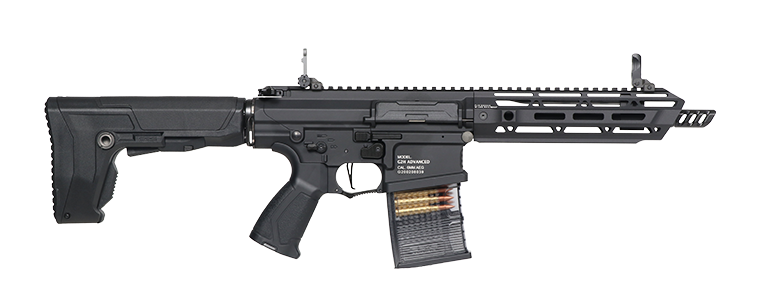
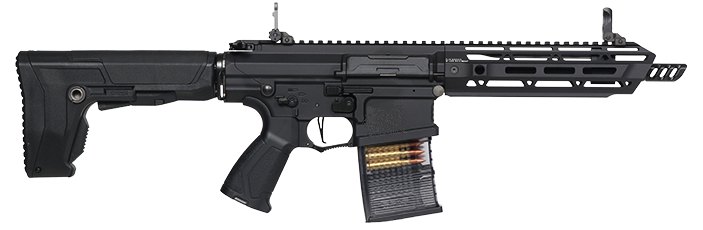
colors corrected and size fit for weaponCard

Changed region(s): [[0.0, 0.0, 0.9858, 0.9739]]

diff --git a/src/components/WeaponCard.js b/src/components/WeaponCard.js
@@ -15,7 +15,21 @@ const useStyles = makeStyles({
   root: {
     width: 200,
     height: 110,
+    backgroundColor: '#141819'
   },
+  weaponStatus: {
+    fontSize: '0.75rem',
+    color: '#4F8A99',
+  },
+  weaponClass: {
+    fontSize: '0.75rem',
+    color: '#727676',
+  },
+  weaponImg: {
+    padding: '0px 20px 0px 20px',
+    maxWidth: '100%',
+    display: 'flex',
+  }
 });
 
 export default function WeaponCard() {
@@ -24,22 +38,33 @@ export default function WeaponCard() {
   return (
     <Card className={classes.root}>
 
-      <Column>
-        <Row>
-          <Item position='left'> Primary Weapon </Item>
+      <Column gap={.5}>
+        <Row >
+          <Item position='left'>
+            <div className={classes.weaponStatus}>Primary Weapon</div>
+          </Item>
+        </Row>
+        <Row gap={'inherit'}>
+          <Item positon='left'>
+            <div className={classes.weaponClass}>AK-47</div>
+          </Item>
         </Row>
         <Row>
-          <Item positon='left'> AK-47 </Item>
+          <Item className={classes.weaponImg}>
+            <CardMedia
+              component="img"
+              alt="Contemplative Reptile"
+              image='https://i.imgur.com/tWaWwc1.png'
+            />
+          </Item>
         </Row>
-        <CardMedia
-          component="img"
-          alt="Contemplative Reptile"
-          image='https://i.imgur.com/P7p7MxW.png'
-        />
-
-        <Row>
-          <Item> Assault Rifle </Item>
-          <Item positon='right'> G & G </Item>
+        <Row position={'bottom'}>
+          <Item>
+            <div className={classes.weaponClass}>Assault Rifle</div>
+          </Item>
+          <Item position='right'>
+            <div className={classes.weaponClass}>G&G</div>
+          </Item>
         </Row>
       </Column>
     </Card>
